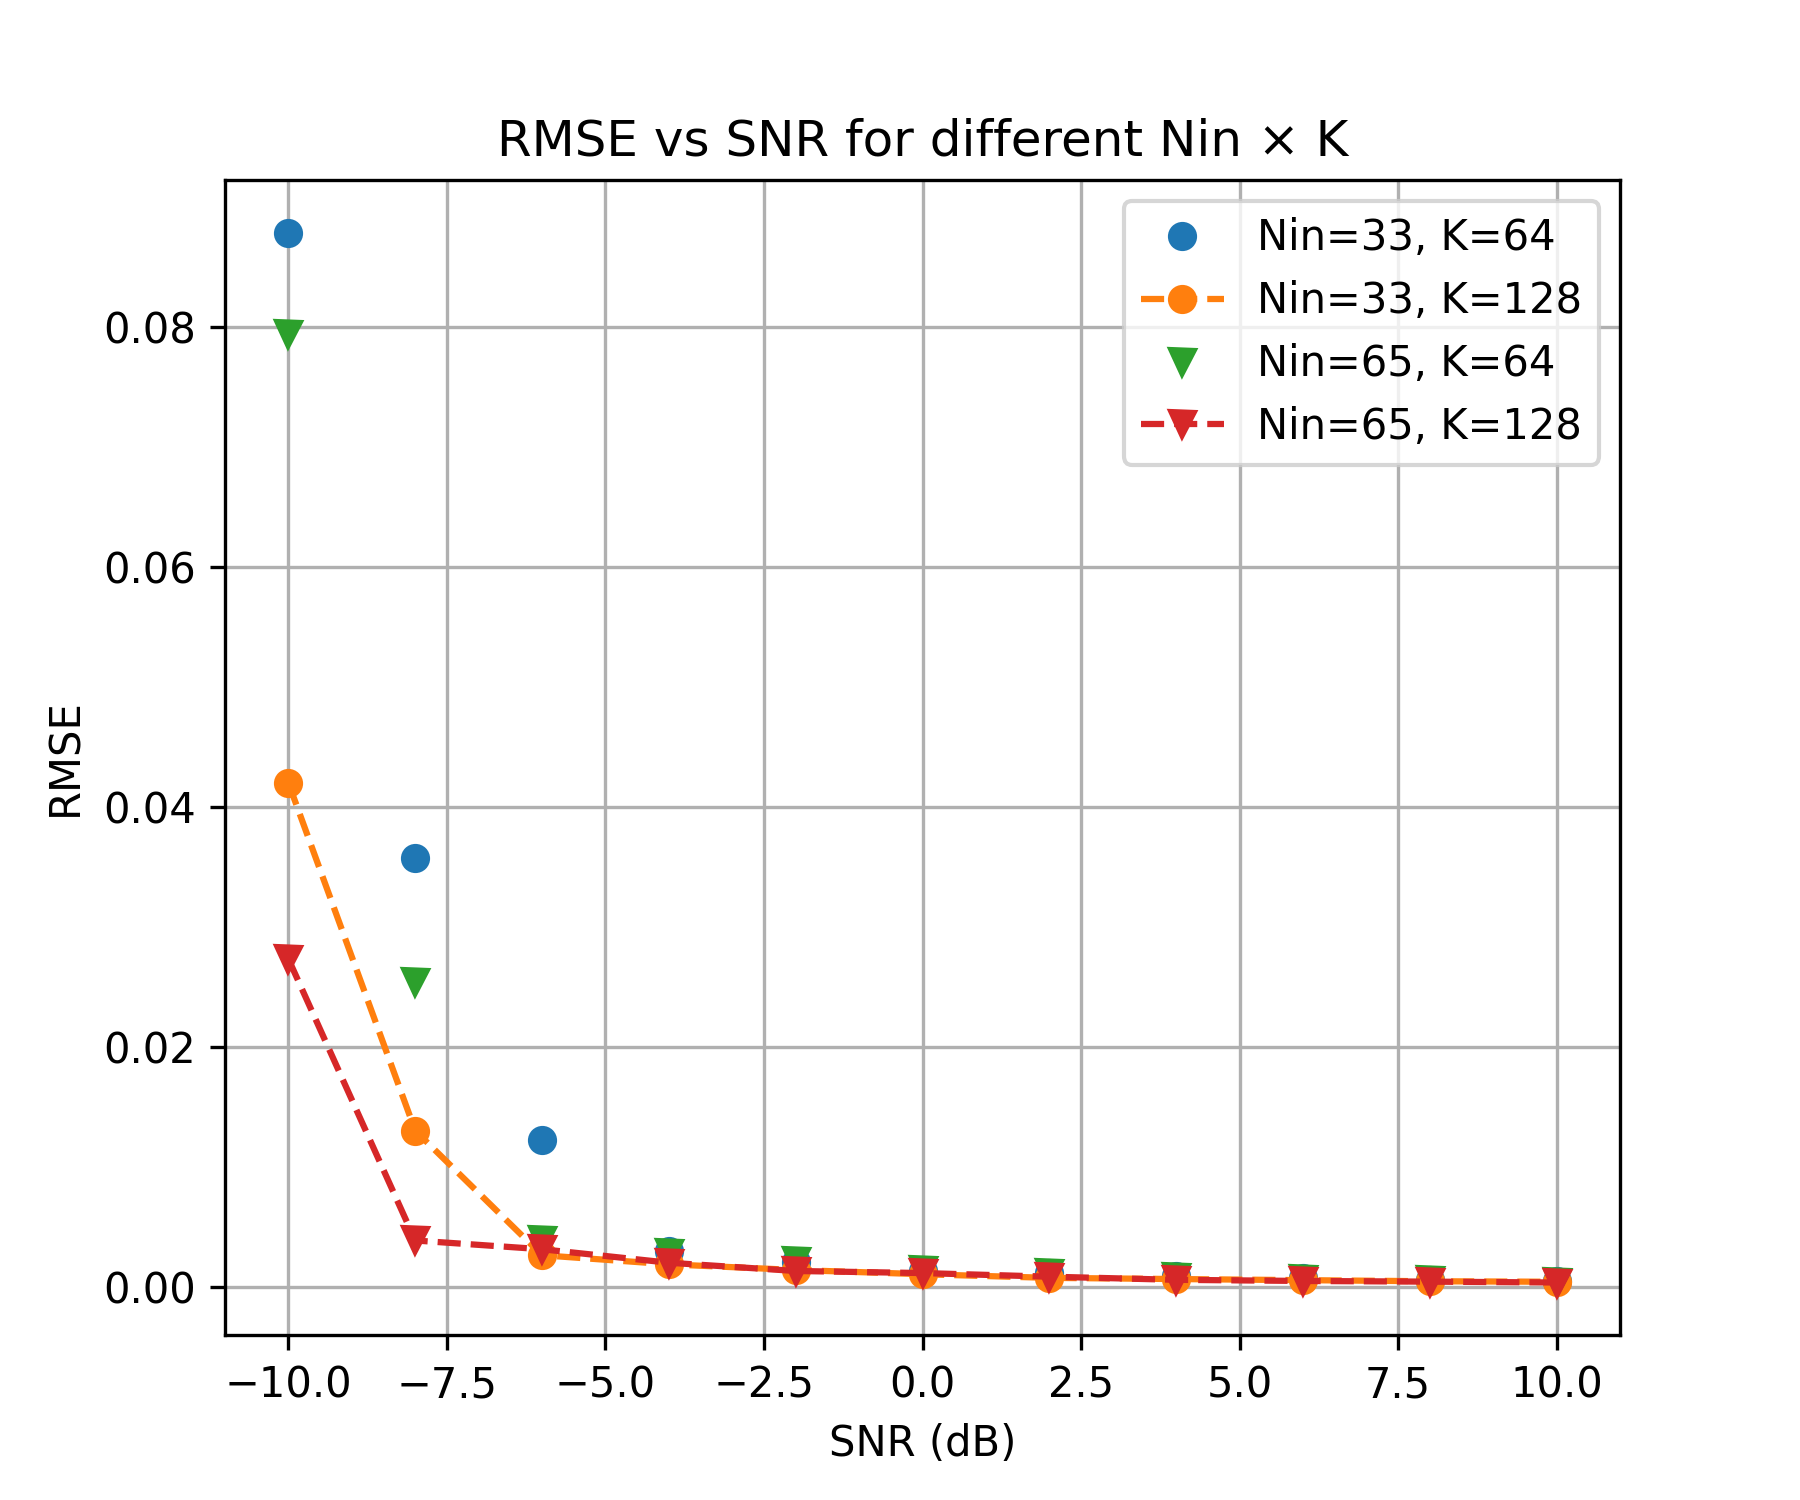
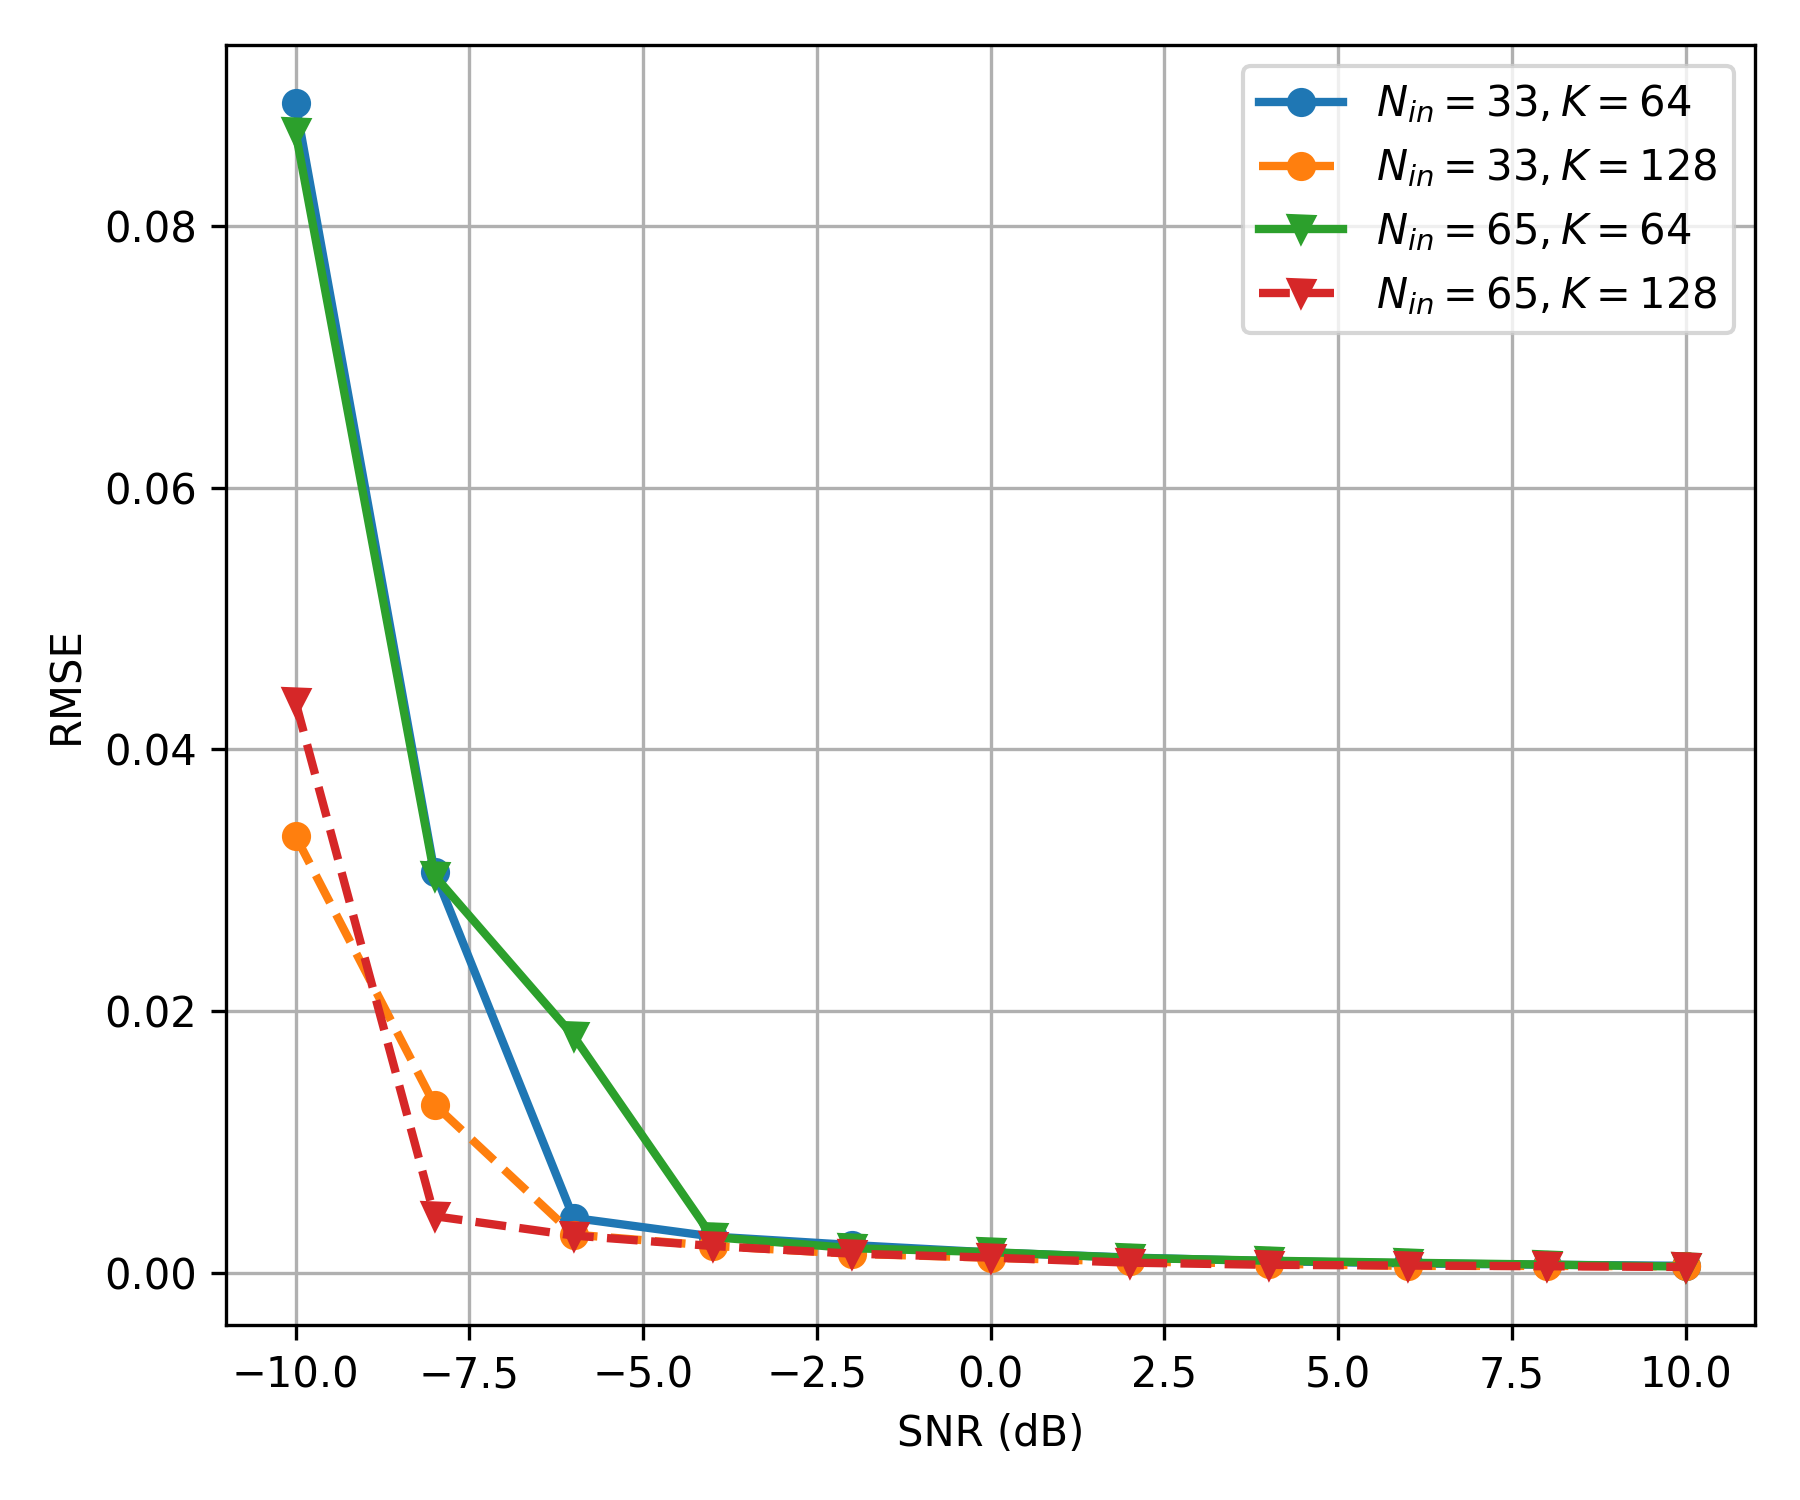
result

diff --git a/run_simulations.py b/run_simulations.py
@@ -407,18 +407,35 @@ for Nin_test in Nin_candidates:
         results_fig9b[(Nin_test, K_val)] = np.array(rmse_list)
 
 # ---- Plot ----
-plt.figure(figsize=(6,5))
-markers = ['o', 'o--', 'v', 'v--']
-for (key, marker) in zip(results_fig9b.keys(), markers):
+plt.figure(figsize=(6, 5))
+
+# 为每条曲线分别指定 marker 和 linestyle
+styles = [
+    ('o', '-'),   # Nin=33, K=64  圆点，实线
+    ('o', '--'),  # Nin=33, K=128 圆点，虚线
+    ('v', '-'),   # Nin=65, K=64  三角，实线
+    ('v', '--'),  # Nin=65, K=128 三角，虚线
+]
+
+for (key, (mk, ls)) in zip(results_fig9b.keys(), styles):
     Nin_test, K_val = key
-    label = f"Nin={Nin_test}, K={K_val}"
-    plt.plot(snr_list, results_fig9b[key], marker=marker[0], linestyle=marker[1:], label=label)
+    # 用 LaTeX 数学字体写成图里那种形式
+    label = rf"$N_{{in}}={Nin_test}, K={K_val}$"
+    plt.plot(
+        snr_list,
+        results_fig9b[key],
+        marker=mk,
+        linestyle=ls,
+        linewidth=2,
+        markersize=6,
+        label=label
+    )
 
 plt.xlabel("SNR (dB)")
 plt.ylabel("RMSE")
-plt.title("RMSE vs SNR for different Nin × K")
 plt.grid(True)
 plt.legend()
-plt.savefig(os.path.join(RESULTS_DIR, "RMSE_vs_SNR_multiNxK.png"), dpi=300) # dpi=300 for better quality
+plt.tight_layout()
+plt.savefig(os.path.join(RESULTS_DIR, "RMSE_vs_SNR_multiNxK.png"), dpi=300)
 print("Saved RMSE_vs_SNR_multiNxK.png")
 
